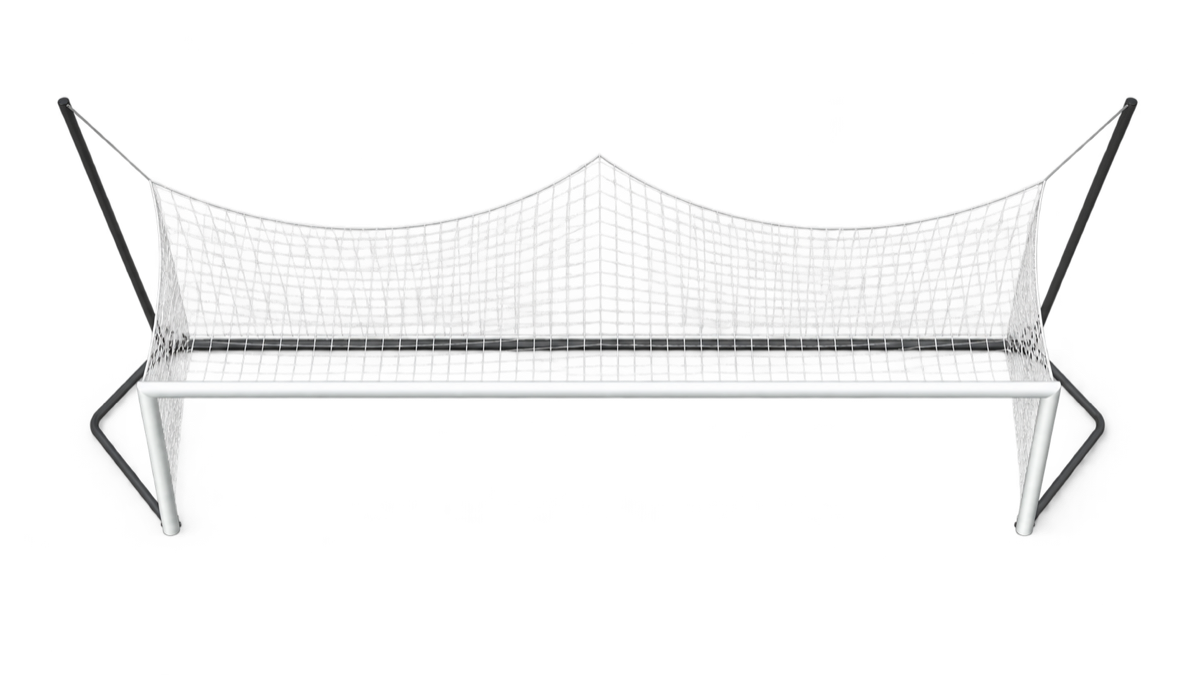
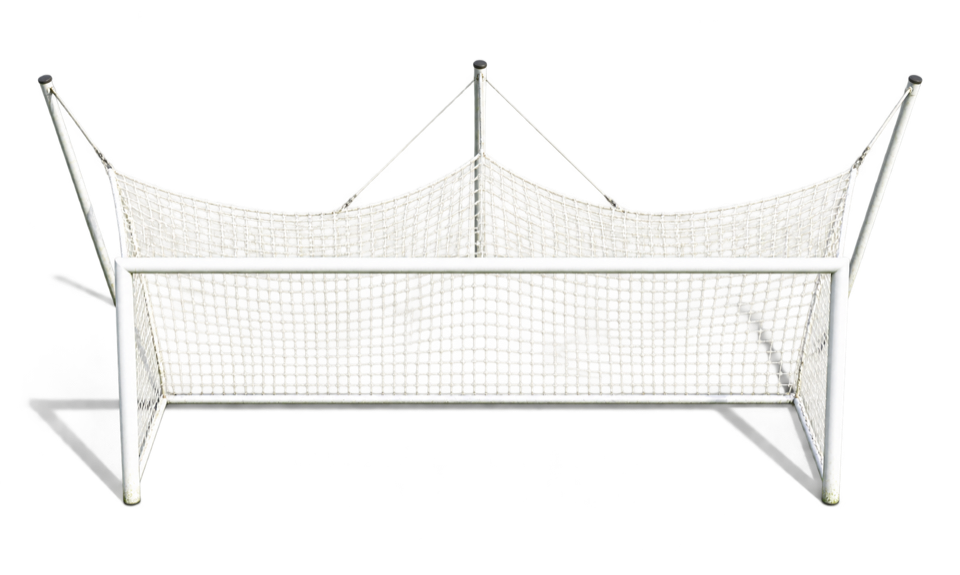
Refine Set Pieces pitch realism

Changed region(s): [[0.0312, 0.0887, 0.9688, 0.887], [0.1875, 0.3548, 0.2188, 0.3843]]

diff --git a/src/modules/set-pieces-room/set-pieces-board.css b/src/modules/set-pieces-room/set-pieces-board.css
@@ -12,14 +12,13 @@
 }
 
 .spr-pitch-grass {
-  filter: saturate(.86) contrast(1.04) brightness(.93);
   pointer-events: none;
 }
 
 .spr-pitch-markings {
   fill: none;
   stroke: #fffdf0;
-  stroke-width: .24;
+  stroke-width: .18;
   stroke-linecap: round;
   stroke-linejoin: round;
   vector-effect: non-scaling-stroke;
@@ -36,13 +35,13 @@
 }
 
 .spr-pitch-goal-image {
-  filter: contrast(1.55) brightness(1.22) drop-shadow(0 .08px .08px #173f2470);
-  opacity: .76;
+  filter: contrast(1.06) brightness(1.03) drop-shadow(0 .1px .14px #173f2459);
+  opacity: .98;
   pointer-events: none;
 }
 
 .spr-pitch-markings .spr-pitch-goal-net-surface {
-  fill: #fffef20d;
+  fill: none;
   stroke: none;
 }
 
@@ -52,7 +51,7 @@
   stroke-width: .075;
   stroke-linecap: round;
   stroke-linejoin: round;
-  opacity: .88;
+  opacity: 0;
   filter: drop-shadow(0 .04px .05px #173f2466);
 }
 
@@ -62,19 +61,20 @@
   stroke-width: .13;
   stroke-linecap: round;
   stroke-linejoin: round;
-  opacity: .96;
+  opacity: 0;
 }
 
 .spr-pitch-markings .spr-pitch-goal-mouth {
   stroke: #fff;
   stroke-width: .34;
   stroke-linecap: round;
-  filter: drop-shadow(0 .08px .08px #173f2480);
+  opacity: 0;
 }
 
 .spr-pitch-markings .spr-pitch-goal-post {
   fill: #fff;
   stroke: none;
+  opacity: 0;
 }
 
 .spr-pitch-guides {
